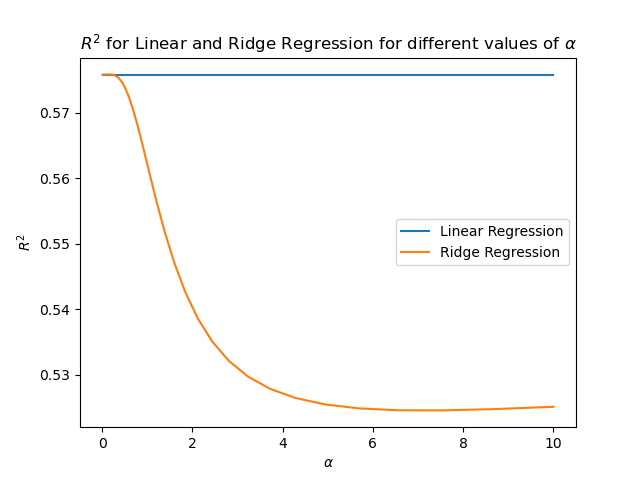
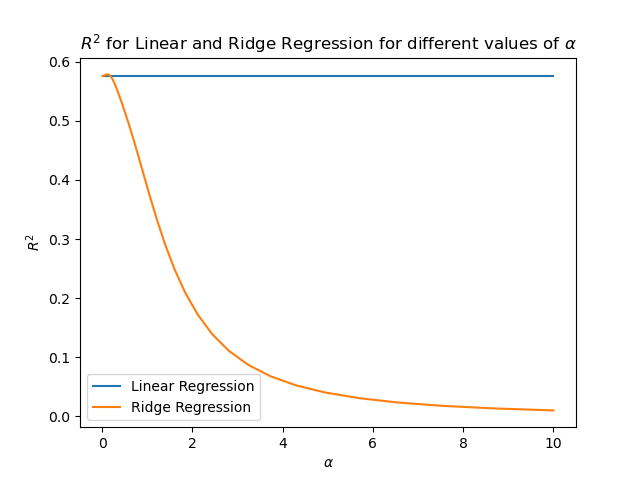
Changed P2 Ridge Regression

diff --git a/homework/HW3/HW3-final/Regression.py b/homework/HW3/HW3-final/Regression.py
@@ -30,12 +30,17 @@ class LinearRegression(Regression):
         self.params['intercept'] = beta[-1]
         self.params['coefficients'] = beta[0:-1]
 
-
 class RidgeRegression(LinearRegression):
     def fit(self, X, y):
-        X = np.append(X, np.ones((X.shape[0], 1)), axis=1)
-        gamma = np.identity(X.shape[1])*self.params['alpha']
-        beta = np.dot(np.linalg.pinv(np.dot(X.T, X)+np.dot(gamma.T, gamma)), np.dot(X.T, y))
-        self.params['intercept'] = beta[-1]
-        self.params['coefficients'] = beta[0:-1]
-
+        Xmean = np.mean(X, axis=0)
+        scale = 1 / np.sqrt(np.sum((X - Xmean)**2, axis=0))
+        Xs = X * scale
+        X1 = np.append(np.ones((Xs.shape[0], 1)), Xs, axis=1)
+        gamma = self.params['alpha']*np.identity(X1.shape[1])
+        gamma[0,0] = 0
+        beta = np.linalg.pinv(X1.T.dot(X1) + gamma.T.dot(gamma)).dot(X1.T).dot(y)
+        intercept = beta[0]
+        beta = beta[1:] * scale
+        self.params['intercept'] = intercept
+        self.params['coefficients'] = beta
+        
